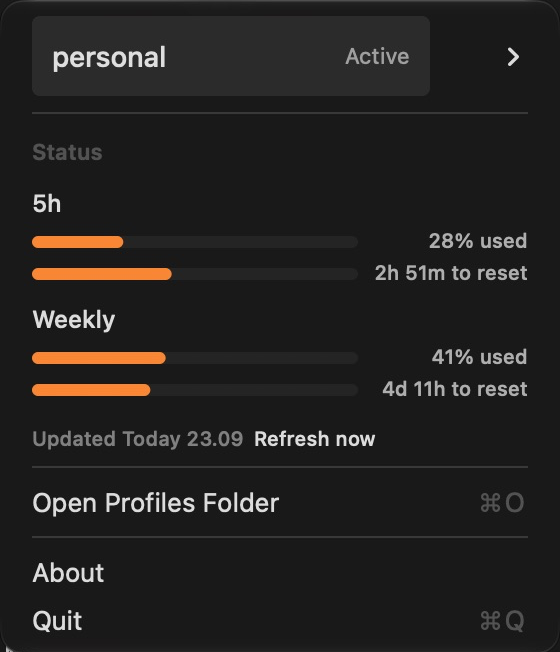
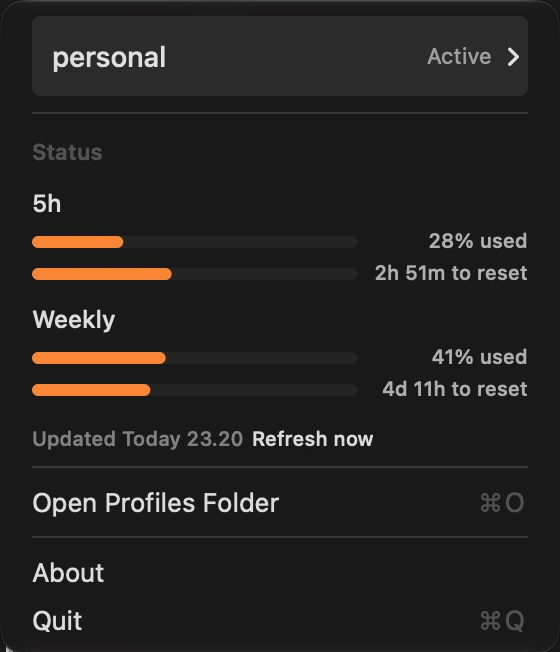
Extend active account styling behind the native caret

diff --git a/CodexAccountSwitcher.swift b/CodexAccountSwitcher.swift
@@ -193,11 +193,26 @@ private func makeNativeMenuHighlight(frame: NSRect) -> NSVisualEffectView {
     return highlight
 }
 
-// Draw the account styling while NSMenu owns submenu tracking and navigation.
-private final class AccountSubmenuCell: NSCell {
+// The attachment occupies only the native title column, but draws the account
+// background through the trailing column. The standard menu item still owns its
+// caret, selection, accessibility and keyboard navigation.
+private final class AccountTitleAttachmentCell: NSTextAttachmentCell {
     var activeProfile = ""
+    weak var menuItem: NSMenuItem?
+    var titleColumnWidth: CGFloat = MenuLayout.contentWidth
 
-    override func draw(withFrame cellFrame: NSRect, in controlView: NSView) {
+    override var cellSize: NSSize {
+        NSSize(width: titleColumnWidth, height: MenuLayout.accountBoxHeight)
+    }
+
+    override func cellBaselineOffset() -> NSPoint {
+        NSPoint(x: 0, y: MenuLayout.itemFont.descender)
+    }
+
+    override func draw(withFrame titleFrame: NSRect, in controlView: NSView?) {
+        let cellFrame = NSRect(x: titleFrame.minX, y: titleFrame.minY,
+                               width: MenuLayout.contentWidth, height: titleFrame.height)
+        let isHighlighted = menuItem?.isHighlighted == true
         let textColor = isHighlighted ? NSColor.selectedMenuItemTextColor : NSColor.labelColor
         let secondaryColor = isHighlighted ? textColor.withAlphaComponent(0.85) : NSColor.secondaryLabelColor
         if !isHighlighted {
@@ -216,7 +231,7 @@ private final class AccountSubmenuCell: NSCell {
         let nameHeight = NSAttributedString(string: name, attributes: nameAttributes).size().height
         (name as NSString).draw(
             in: NSRect(x: cellFrame.minX + 10, y: cellFrame.midY - nameHeight / 2,
-                       width: cellFrame.width - (activeProfile.isEmpty ? 20 : 64), height: nameHeight),
+                       width: cellFrame.width - (activeProfile.isEmpty ? 20 : 80), height: nameHeight),
             withAttributes: nameAttributes
         )
 
@@ -227,7 +242,7 @@ private final class AccountSubmenuCell: NSCell {
             ]
             let size = NSAttributedString(string: "Active", attributes: attributes).size()
             ("Active" as NSString).draw(
-                at: NSPoint(x: cellFrame.maxX - 10 - size.width, y: cellFrame.midY - size.height / 2),
+                at: NSPoint(x: cellFrame.maxX - 18 - size.width, y: cellFrame.midY - size.height / 2),
                 withAttributes: attributes
             )
         }
@@ -921,8 +936,8 @@ final class AppDelegate: NSObject, NSApplicationDelegate, NSMenuDelegate {
         menu.addItem(makeItem(title: "About", action: #selector(showAbout)))
         menu.addItem(makeItem(title: "Quit", action: #selector(quit), keyEquivalent: "q"))
 
-        // Keep the styled title in the native title column. AppKit owns the
-        // submenu caret, its geometry, highlighting and keyboard navigation.
+        // Measure AppKit's reserved trailing column without widening the menu.
+        // The attachment draws across it while retaining native title metrics.
         let menuWidth = menu.size.width
         setAccountTitle(on: selectorItem, profile: activeProfile, width: MenuLayout.contentWidth)
         let overflow = max(0, menu.size.width - menuWidth)
@@ -934,35 +949,24 @@ final class AppDelegate: NSObject, NSApplicationDelegate, NSMenuDelegate {
     }
 
     private func setAccountTitle(on item: NSMenuItem, profile: String, width: CGFloat) {
-        let image = NSImage(size: NSSize(width: width, height: MenuLayout.accountBoxHeight), flipped: true) { [weak item] rect in
-            let cell = AccountSubmenuCell(textCell: profile)
-            cell.activeProfile = profile
-            cell.isHighlighted = item?.isHighlighted == true
-            cell.draw(withFrame: rect, in: NSView(frame: rect))
-            return true
-        }
-        image.cacheMode = .never
-        image.accessibilityDescription = profile.isEmpty ? "Accounts" : "Active account: \(profile)"
         let attachment = NSTextAttachment()
-        attachment.image = image
-        attachment.bounds = NSRect(x: 0, y: MenuLayout.itemFont.descender,
-                                   width: width, height: MenuLayout.accountBoxHeight)
+        let cell = AccountTitleAttachmentCell(textCell: profile)
+        cell.activeProfile = profile
+        cell.menuItem = item
+        cell.titleColumnWidth = width
+        attachment.attachmentCell = cell
         let title = NSMutableAttributedString(attachment: attachment)
         title.addAttribute(.font, value: MenuLayout.itemFont, range: NSRange(location: 0, length: title.length))
         item.attributedTitle = title
         // Retain a plain title for accessibility and native type-select.
         item.title = profile.isEmpty ? "Accounts" : profile
-        item.toolTip = image.accessibilityDescription
+        item.toolTip = profile.isEmpty ? "Accounts" : "Active account: \(profile)"
     }
 
     func menu(_ menu: NSMenu, willHighlight item: NSMenuItem?) {
         // Custom account content follows the same native highlight state as ordinary items.
         for menuItem in menu.items {
             menuItem.view?.needsDisplay = true
-            if let title = menuItem.attributedTitle, title.length > 0,
-               let attachment = title.attribute(.attachment, at: 0, effectiveRange: nil) as? NSTextAttachment {
-                attachment.image?.recache()
-            }
         }
     }
 

diff --git a/tests/test_account_menu.py b/tests/test_account_menu.py
@@ -42,7 +42,7 @@ extension AppDelegate {
             assert(menu.supermenu === main)
             assert(accountItem.view == nil, "AppKit must draw the native submenu caret")
             let attachment = accountItem.attributedTitle?.attribute(.attachment, at: 0, effectiveRange: nil) as? NSTextAttachment
-            assert(attachment?.image != nil, "The native row must retain the styled account title")
+            assert(attachment?.attachmentCell is AccountTitleAttachmentCell, "The native row must retain the styled account title")
             assert(main.size.width == 280, "The native caret must not widen the menu")
             let choices = menu.items.filter { !$0.isHidden && !$0.isSeparatorItem }
             assert(choices.map(\.title) == profiles.filter { $0 != "personal" } + ["Add account"])
